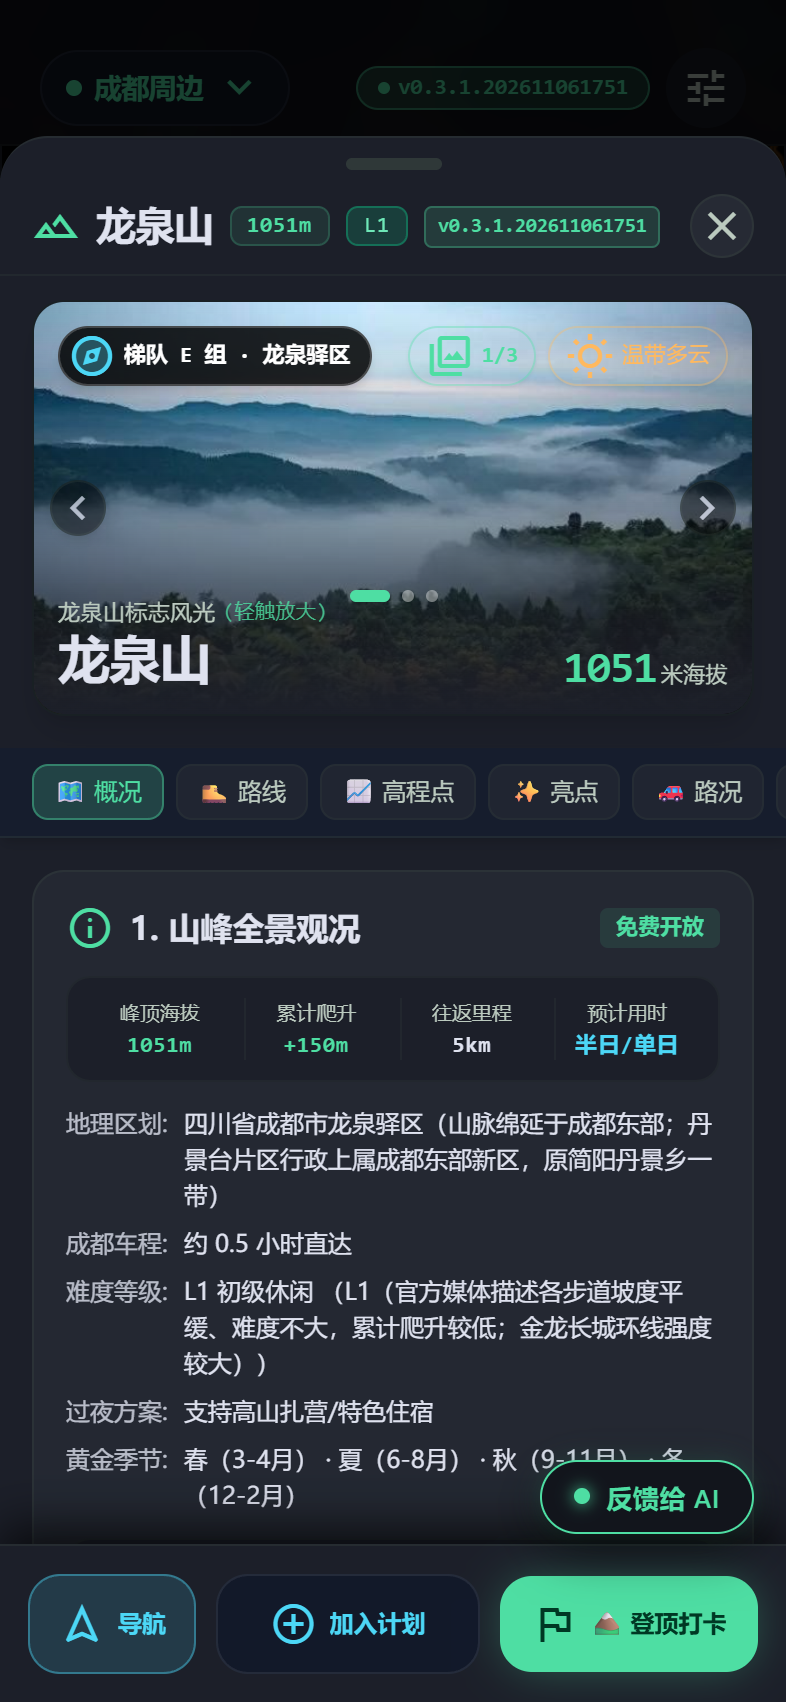
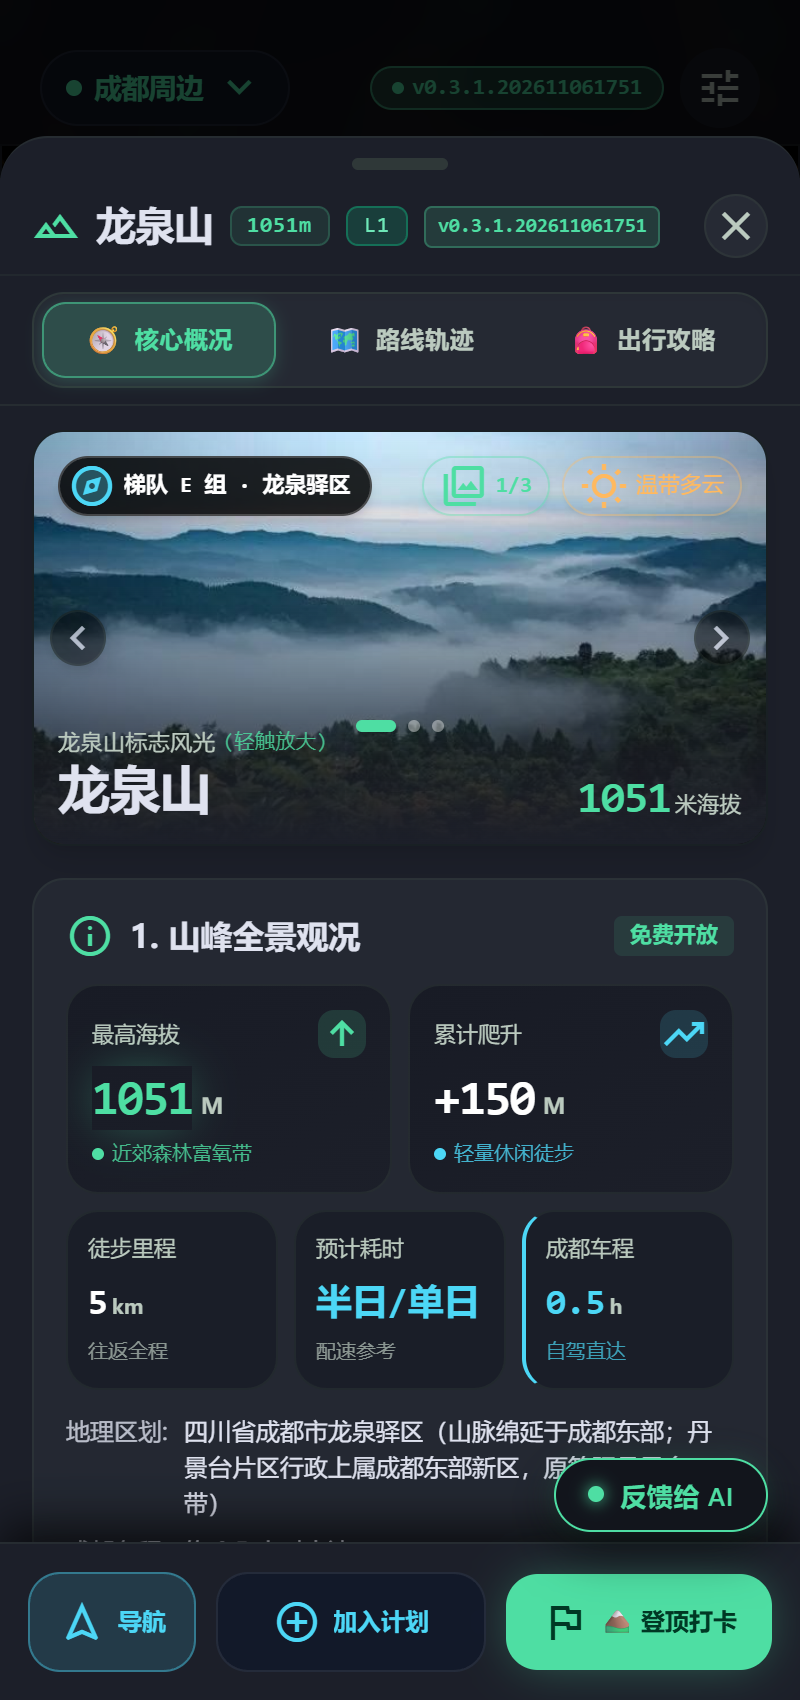
test(e2e): 适配三段式选项卡架构并刷新 README 详情页高清截图

diff --git a/scratch/test_app_e2e_full.py b/scratch/test_app_e2e_full.py
@@ -217,35 +217,62 @@ def run_full_e2e_suite():
             assert detail_sheet.is_visible(), "Assertion Failed: MountainDetailSheet did not open!"
             print("  [PASS] 3.1 Detail sheet opened smoothly")
 
-            # 3.2 验证全部 12 个核心模块
-            modules_spec = [
+            # 3.2 验证三段式场景选项卡 (Tab 1: Overview, Tab 2: Trail, Tab 3: Guide)
+            tab_overview = page.locator(".mountain-detail-sheet .tab-btn-overview")
+            tab_trail = page.locator(".mountain-detail-sheet .tab-btn-trail")
+            tab_guide = page.locator(".mountain-detail-sheet .tab-btn-guide")
+            assert tab_overview.is_visible(), "Assertion Failed: Overview tab button missing!"
+            assert tab_trail.is_visible(), "Assertion Failed: Trail tab button missing!"
+            assert tab_guide.is_visible(), "Assertion Failed: Guide tab button missing!"
+            print("  [PASS] 3.2 Contextual tabs (Overview, Trail, Guide) visible")
+
+            # 3.2.1 验证 Tab 1 (Overview) 模块
+            overview_modules = [
                 ("1. 概况", ".detail-module-overview"),
+                ("4. 亮点", ".detail-module-highlights"),
+                ("11. 天气预报", ".detail-module-weather"),
+            ]
+            for mod_name, mod_sel in overview_modules:
+                mod_loc = page.locator(f".mountain-detail-sheet .tab-pane-overview {mod_sel}")
+                assert mod_loc.count() > 0, f"Assertion Failed: Module {mod_name} ({mod_sel}) missing in overview!"
+                assert mod_loc.is_visible(), f"Assertion Failed: Module {mod_name} ({mod_sel}) is not visible in overview!"
+            print("  [PASS] 3.2.1 Tab 1 Overview modules verified (Overview, Highlights, Weather)")
+
+            # 3.2.2 切换至 Tab 2 (Trail) 并验证
+            tab_trail.click()
+            page.wait_for_timeout(400)
+            trail_modules = [
                 ("2. 路线", ".detail-module-routes"),
                 ("3. 高程打卡点", ".detail-module-waypoints"),
-                ("4. 亮点", ".detail-module-highlights"),
+            ]
+            for mod_name, mod_sel in trail_modules:
+                mod_loc = page.locator(f".mountain-detail-sheet .tab-pane-trail {mod_sel}")
+                assert mod_loc.count() > 0, f"Assertion Failed: Module {mod_name} ({mod_sel}) missing in trail!"
+                assert mod_loc.is_visible(), f"Assertion Failed: Module {mod_name} ({mod_sel}) is not visible in trail!"
+
+            elev_chart = page.locator(".mountain-detail-sheet .route-elevation-chart")
+            assert elev_chart.is_visible(), "Assertion Failed: .route-elevation-chart not visible!"
+            waypoints = page.locator(".mountain-detail-sheet .waypoint-item")
+            assert waypoints.count() >= 2, f"Assertion Failed: Expected >= 2 waypoints, got {waypoints.count()}"
+            print(f"  [PASS] 3.2.2 Tab 2 Trail modules, elevation chart & {waypoints.count()} waypoints verified")
+
+            # 3.2.3 切换至 Tab 3 (Guide) 并验证
+            tab_guide.click()
+            page.wait_for_timeout(400)
+            guide_modules = [
                 ("5. 路况驾驶", ".detail-module-road"),
                 ("6. 安全高反", ".detail-module-safety"),
                 ("7. 装备清单", ".detail-module-gear"),
                 ("8. 餐饮住宿", ".detail-module-food-stay"),
                 ("9. 门票费用", ".detail-module-tickets"),
                 ("10. 环保倡议", ".detail-module-eco"),
-                ("11. 天气预报", ".detail-module-weather"),
                 ("12. 核验来源", ".detail-module-sources"),
             ]
-            for mod_name, mod_sel in modules_spec:
-                mod_loc = page.locator(f".mountain-detail-sheet {mod_sel}")
-                assert mod_loc.count() > 0, f"Assertion Failed: Module {mod_name} ({mod_sel}) missing!"
-                assert mod_loc.is_visible(), f"Assertion Failed: Module {mod_name} ({mod_sel}) is not visible!"
-                scroll_mt = page.evaluate(f"() => window.getComputedStyle(document.querySelector('.mountain-detail-sheet {mod_sel}')).scrollMarginTop")
-                assert scroll_mt and scroll_mt != "0px", f"Assertion Failed: Module {mod_name} missing scrollMarginTop!"
-            print("  [PASS] 3.2 All 12 modules verified with valid scrollMarginTop")
-
-            # 3.3 高程剖面可视化图表与打卡点列表
-            elev_chart = page.locator(".mountain-detail-sheet .route-elevation-chart")
-            assert elev_chart.is_visible(), "Assertion Failed: .route-elevation-chart not visible!"
-            waypoints = page.locator(".mountain-detail-sheet .waypoint-item")
-            assert waypoints.count() >= 2, f"Assertion Failed: Expected >= 2 waypoints, got {waypoints.count()}"
-            print(f"  [PASS] 3.3 Elevation chart & {waypoints.count()} waypoints verified")
+            for mod_name, mod_sel in guide_modules:
+                mod_loc = page.locator(f".mountain-detail-sheet .tab-pane-guide {mod_sel}")
+                assert mod_loc.count() > 0, f"Assertion Failed: Module {mod_name} ({mod_sel}) missing in guide!"
+                assert mod_loc.is_visible(), f"Assertion Failed: Module {mod_name} ({mod_sel}) is not visible in guide!"
+            print("  [PASS] 3.2.3 Tab 3 Guide modules verified (Road, Safety, Gear, Food, Tickets, Eco, Sources)")
 
             # 3.4 装备清单勾选测试（Stitch Alpine 定制复选框点击 label 测试）
             gear_label = page.locator(".mountain-detail-sheet .detail-module-gear label").first
